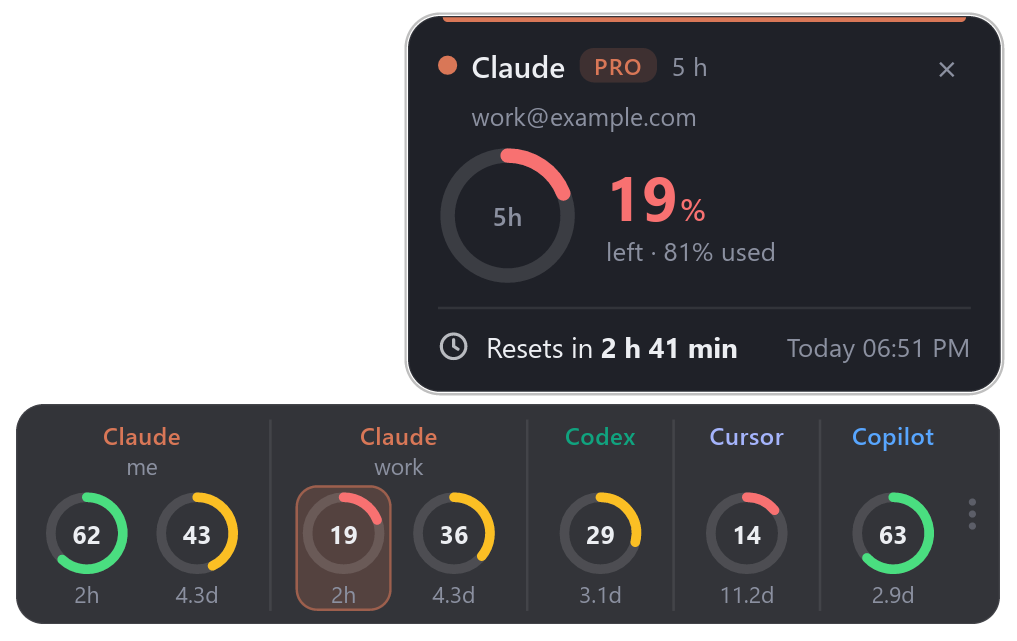
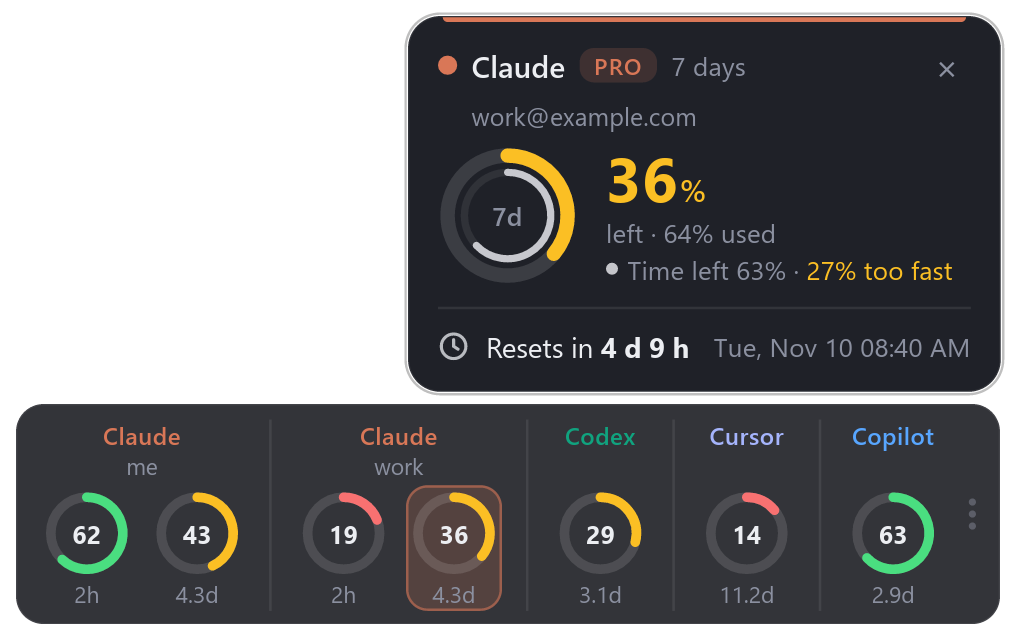
2.1.1: a small inner ring in the detail panel for the time left in the window
Clicking a ring now shows two rings: the outer one is the quota left, as before,
and a thin one inside it is how much of the window's time is left until the reset,
so quota going faster than time shows at a glance mid-week.

- A line under the numbers says the same in words: "Time left 63% · 27% too fast",
  "… · 12% spare", or "on pace" within 2 points (and in Thai).
- The window's length is its span; Cursor's and Copilot's monthly windows have none
  and run from the same day of the month before. A window with neither a length nor
  a reset time looks as it did.
- A label too long for the inner ring ("Premium") is left out; the head names it too.
- README: the feature and the hero image, now showing a 7-day window.

diff --git a/src/ui/panel.rs b/src/ui/panel.rs
@@ -2,7 +2,7 @@
 use super::card::central_text;
 use super::gfx::{Canvas, Rgba, R};
 use super::text::{Fonts, Style};
-use super::{clamp_pct, icons, js_round, level_color, ring_label, svc_color, LINE, MUTED, TEXT, TRACK, WARN};
+use super::{clamp_pct, icons, js_round, level_color, ring_label, svc_color, time_left_pct, LINE, MUTED, OK, TEXT, TRACK, WARN};
 use crate::fmt;
 use crate::i18n::{self, Lang};
 use crate::model::{Quota, Svc};
@@ -205,18 +205,52 @@ pub fn draw(c: &mut Canvas, f: &mut Fonts, l: &PanelLayout, inp: &PanelIn, fx: &
     let color = level_color(left);
     let (rcx, rcy) = (CONTENT_X + 29.0, y + 29.0);
     c.ring(rcx, rcy, 25.0, 6.0, TRACK, (left / 100.0) as f32, if left > 0.0 { color } else { Rgba::TRANSPARENT });
-    central_text(c, f, rcx, rcy, &ring_label(w, inp.lang), &Style::new(11.0, 600, MUTED, 1.3));
+    // Inside it, how much of the window's time is left: quota going faster than time shows as the inner arc passing
+    // the outer one.
+    let time = time_left_pct(w, inp.svc, inp.now);
+    let time_color = TEXT.fade(0.8);
+    if let Some(p) = time {
+        c.ring(rcx, rcy, 18.0, 3.0, Rgba::rgba(255, 255, 255, 0.07), (p / 100.0) as f32, time_color);
+    }
+    let label = ring_label(w, inp.lang);
+    let label_style = Style::new(11.0, 600, MUTED, 1.3);
+    // A long name ("Premium") no longer fits inside the inner ring; the head says it too.
+    if time.is_none() || f.width(&label, &label_style) <= 30.0 {
+        central_text(c, f, rcx, rcy, &label, &label_style);
+    }
     let bx0 = CONTENT_X + 58.0 + 12.0;
     let big = Style::new(26.0, 700, color, 1.0).tab();
     let small = Style::new(13.0, 600, color, 1.0);
     let cap = cap_style();
-    let block_h = big.lh + 3.0 + cap.lh;
+    let block_h = big.lh + 3.0 + cap.lh + if time.is_some() { 1.0 + cap.lh } else { 0.0 };
     let by = y + (58.0 - block_h) / 2.0;
     let num = js_round(left).to_string();
     let base = by + f.baseline(&big);
     let nw = f.draw_at_baseline(c, bx0, base, &num, &big, 0.0).w;
     f.draw_at_baseline(c, bx0 + nw + 1.0, base, "%", &small, 0.0);
     f.draw(c, bx0, by + big.lh + 3.0, &i18n::left_used(inp.lang, js_round(w.used())), &cap, None, 0.0);
+    if let Some(p) = time {
+        let ly = by + big.lh + 3.0 + cap.lh + 1.0;
+        c.fill_circle(bx0 + 2.5, ly + cap.lh / 2.0, 2.5, time_color);
+        let x = bx0 + 5.0 + 4.0;
+        let time_text = i18n::time_left(inp.lang, js_round(p));
+        let diff = js_round(left) - js_round(p);
+        let pace = i18n::pace(inp.lang, diff);
+        let pace_color = match diff {
+            -2..=2 => MUTED,
+            ..0 => WARN,
+            _ => OK,
+        };
+        // Wider fonts on other systems: the verdict is the part that can go.
+        let lead = format!("{time_text} · ");
+        let lead_w = f.width(&lead, &cap);
+        if x + lead_w + f.width(&pace, &cap) <= CONTENT_X + CONTENT_W {
+            f.draw(c, x, ly, &lead, &cap, None, 0.0);
+            f.draw(c, x + lead_w, ly, &pace, &cap.color(pace_color), None, 0.0);
+        } else {
+            f.draw(c, x, ly, &time_text, &cap, None, 0.0);
+        }
+    }
 
     // ---------- rows ----------
     let rows = rows(inp);

diff --git a/src/ui/mod.rs b/src/ui/mod.rs
@@ -77,6 +77,21 @@ pub fn ring_label(w: &Win, lang: Lang) -> String {
     }
 }
 
+/// How much of the window's time is left, in percent, to set against how much of its quota is. Its length is `span`;
+/// Cursor's and Copilot's windows have none but run from the same day of the month before. None when it isn't known.
+pub fn time_left_pct(w: &Win, svc: Svc, now: i64) -> Option<f64> {
+    let at = w.resets_at?;
+    let len = match w.span.filter(|s| *s > 0.0) {
+        Some(s) => s * 1000.0,
+        None if w.billing || matches!(svc, Svc::Cursor | Svc::Copilot) => {
+            let end = chrono::DateTime::from_timestamp_millis(at)?;
+            (at - end.checked_sub_months(chrono::Months::new(1))?.timestamp_millis()) as f64
+        }
+        None => return None,
+    };
+    Some(clamp_pct((at - now) as f64 / len * 100.0))
+}
+
 /// CSS ease-out / ease-in-out timing curves (cubic-bezier).
 pub fn ease_out(t: f32) -> f32 {
     bezier(0.0, 0.0, 0.58, 1.0, t)
@@ -103,4 +118,39 @@ pub fn bezier(x1: f32, y1: f32, x2: f32, y2: f32, t: f32) -> f32 {
         }
     }
     by((lo + hi) / 2.0)
+}
+
+#[cfg(test)]
+mod tests {
+    use super::*;
+
+    const DAY: i64 = 86_400_000;
+
+    #[test]
+    fn time_left_of_a_window_with_a_span() {
+        let w = Win { span: Some(7.0 * 86400.0), resets_at: Some(10 * DAY), ..Win::default() };
+        // 3.5 of 7 days gone.
+        assert_eq!(time_left_pct(&w, Svc::Claude, 10 * DAY - 7 * DAY / 2), Some(50.0));
+        // Reset already past (old numbers), or a clock behind the window's start.
+        assert_eq!(time_left_pct(&w, Svc::Claude, 11 * DAY), Some(0.0));
+        assert_eq!(time_left_pct(&w, Svc::Claude, 0), Some(100.0));
+    }
+
+    #[test]
+    fn monthly_windows_run_from_the_month_before() {
+        // 2026-11-01 00:00 UTC; October has 31 days.
+        let at = 1_793_491_200_000;
+        let cursor = Win { billing: true, resets_at: Some(at), ..Win::default() };
+        assert!((time_left_pct(&cursor, Svc::Cursor, at - 31 * DAY * 3 / 4).unwrap() - 75.0).abs() < 1e-9);
+        let copilot = Win { name: Some("Premium".into()), resets_at: Some(at), ..Win::default() };
+        assert!((time_left_pct(&copilot, Svc::Copilot, at - 31 * DAY / 4).unwrap() - 25.0).abs() < 1e-9);
+    }
+
+    #[test]
+    fn no_time_left_without_a_length_or_a_reset() {
+        let unknown = Win { id: "seven_day_new".into(), resets_at: Some(DAY), ..Win::default() };
+        assert_eq!(time_left_pct(&unknown, Svc::Claude, 0), None);
+        let no_reset = Win { span: Some(18000.0), ..Win::default() };
+        assert_eq!(time_left_pct(&no_reset, Svc::Claude, 0), None);
+    }
 }

diff --git a/src/shots.rs b/src/shots.rs
@@ -119,7 +119,7 @@ pub fn run(dir: &Path) -> std::io::Result<()> {
     // The README's images ("accounts…" ones show two Claude accounts and Copilot), then with AQO_SHOT_EXTRA=1 the
     // other states, to look at.
     let mut shots: Vec<(&str, Lang, bool, bool, Option<NetState>, Pop, Option<Quota>)> = vec![
-        ("hero", Lang::En, false, false, None, Pop::Panel(WORK, 0), None),
+        ("hero", Lang::En, false, false, None, Pop::Panel(WORK, 1), None),
         ("vertical", Lang::Th, true, false, None, Pop::Panel(CODEX, 1), None),
         ("offline", Lang::En, false, true, Some(NetState { online: false, ms: None }), Pop::None, None),
         (
@@ -140,6 +140,8 @@ pub fn run(dir: &Path) -> std::io::Result<()> {
             ("credits", Lang::En, false, false, None, Pop::Panel(CODEX, 1), None),
             ("network", Lang::En, false, true, Some(NetState { online: true, ms: Some(23) }), Pop::None, None),
             ("thai", Lang::Th, false, false, None, Pop::Panel(CLAUDE, 1), None),
+            ("billing", Lang::Th, false, false, None, Pop::Panel(CURSOR, 0), None),
+            ("accounts-copilot", Lang::Th, false, false, None, Pop::Panel("copilot-2c9e11", 0), None),
             ("accounts-vertical", Lang::Th, true, false, None, Pop::None, None),
             ("empty-network", Lang::En, false, true, Some(NetState { online: true, ms: Some(7) }), Pop::None, None),
             ("empty-vertical", Lang::Th, true, true, Some(NetState { online: true, ms: Some(7) }), Pop::None, None),

diff --git a/src/i18n.rs b/src/i18n.rs
@@ -381,6 +381,25 @@ pub fn left_used(l: Lang, p: i64) -> String {
         Lang::Th => format!("เหลือ · ใช้ไป {p}%"),
     }
 }
+/// How much of a window's time is left, under the numbers of how much of its quota is.
+pub fn time_left(l: Lang, p: i64) -> String {
+    match l {
+        Lang::En => format!("Time left {p}%"),
+        Lang::Th => format!("เวลาเหลือ {p}%"),
+    }
+}
+/// Quota left minus time left, in points: below zero it is going faster than the time allows.
+pub fn pace(l: Lang, diff: i64) -> String {
+    let d = diff.abs();
+    match (l, diff) {
+        (Lang::En, -2..=2) => "on pace".into(),
+        (Lang::En, ..0) => format!("{d}% too fast"),
+        (Lang::En, _) => format!("{d}% spare"),
+        (Lang::Th, -2..=2) => "พอดี".into(),
+        (Lang::Th, ..0) => format!("เร็วไป {d}%"),
+        (Lang::Th, _) => format!("เหลือเผื่อ {d}%"),
+    }
+}
 pub fn from_to(a: &str, b: &str) -> String {
     format!("v{a} → v{b}")
 }

diff --git a/README.md b/README.md
@@ -27,6 +27,7 @@
 - 🟢 **วงละรอบโควต้า** บอก % ที่เหลือ (เขียว > 50% · เหลือง > 20% · แดง) และเวลาก่อนรีเซ็ต `35m` `2h` `4.3d`
 - 🔑 **login ในแอปได้เลย** ผ่านหน้าเว็บของแต่ละเจ้า ไม่ต้องลง CLI · **หลายบัญชีต่อบริการ** เช่น Claude 2 บัญชี
 - 👆 **คลิกที่วง** ดูรายละเอียด: ใช้ไปเท่าไหร่ รีเซ็ตกี่โมง เครดิตที่เหลือ
+- ⏱ **วงเล็กด้านใน** คือเวลาที่เหลือของรอบ เทียบกับโควต้าที่เหลือ (วงนอก) บอกเลยว่าใช้เร็วไปหรือเหลือเผื่อกี่ %
 - ☑ **เลือกได้** ว่าบัญชีไหน รอบไหน (5 ชม. / 7 วัน / Opus / รอบบิล …) ขึ้นบนกล่อง · ลากเรียงลำดับบัญชีได้
 - 🖱 **วางตรงไหนก็ได้** ทุกจอ · แนวนอน / แนวตั้ง · 3 ขนาด · ปรับความทึบ · ลอยบนสุดแต่ไม่แย่ง focus
 - ⚡ **อัปเดตไวแต่ไม่รัว** เช็คทุก 1 นาที (Claude / Copilot ทุก 5 นาที) โดน 429 ก็ยังโชว์ตัวเลขล่าสุด
@@ -109,6 +110,9 @@
 ข้อมูลอยู่ที่ `%APPDATA%\Ai Quota Overlay` · `~/Library/Application Support/Ai Quota Overlay` · `~/.config/Ai Quota Overlay`
 
 ## 📝 มีอะไรใหม่
+
+**2.1.1**
+- หน้ารายละเอียดมี **วงเล็กด้านใน** บอกเวลาที่เหลือจนถึงรีเซ็ต เทียบกับโควต้าที่เหลือได้ทันทีว่า "เร็วไป" หรือ "เหลือเผื่อ" กี่ %
 
 **2.1.0**
 - **login ในแอปได้เลย** ไม่ต้องลง CLI · **หลายบัญชีต่อบริการ** ชื่อบัญชีกำกับใต้ชื่อบริการ · ลากเรียงลำดับได้
